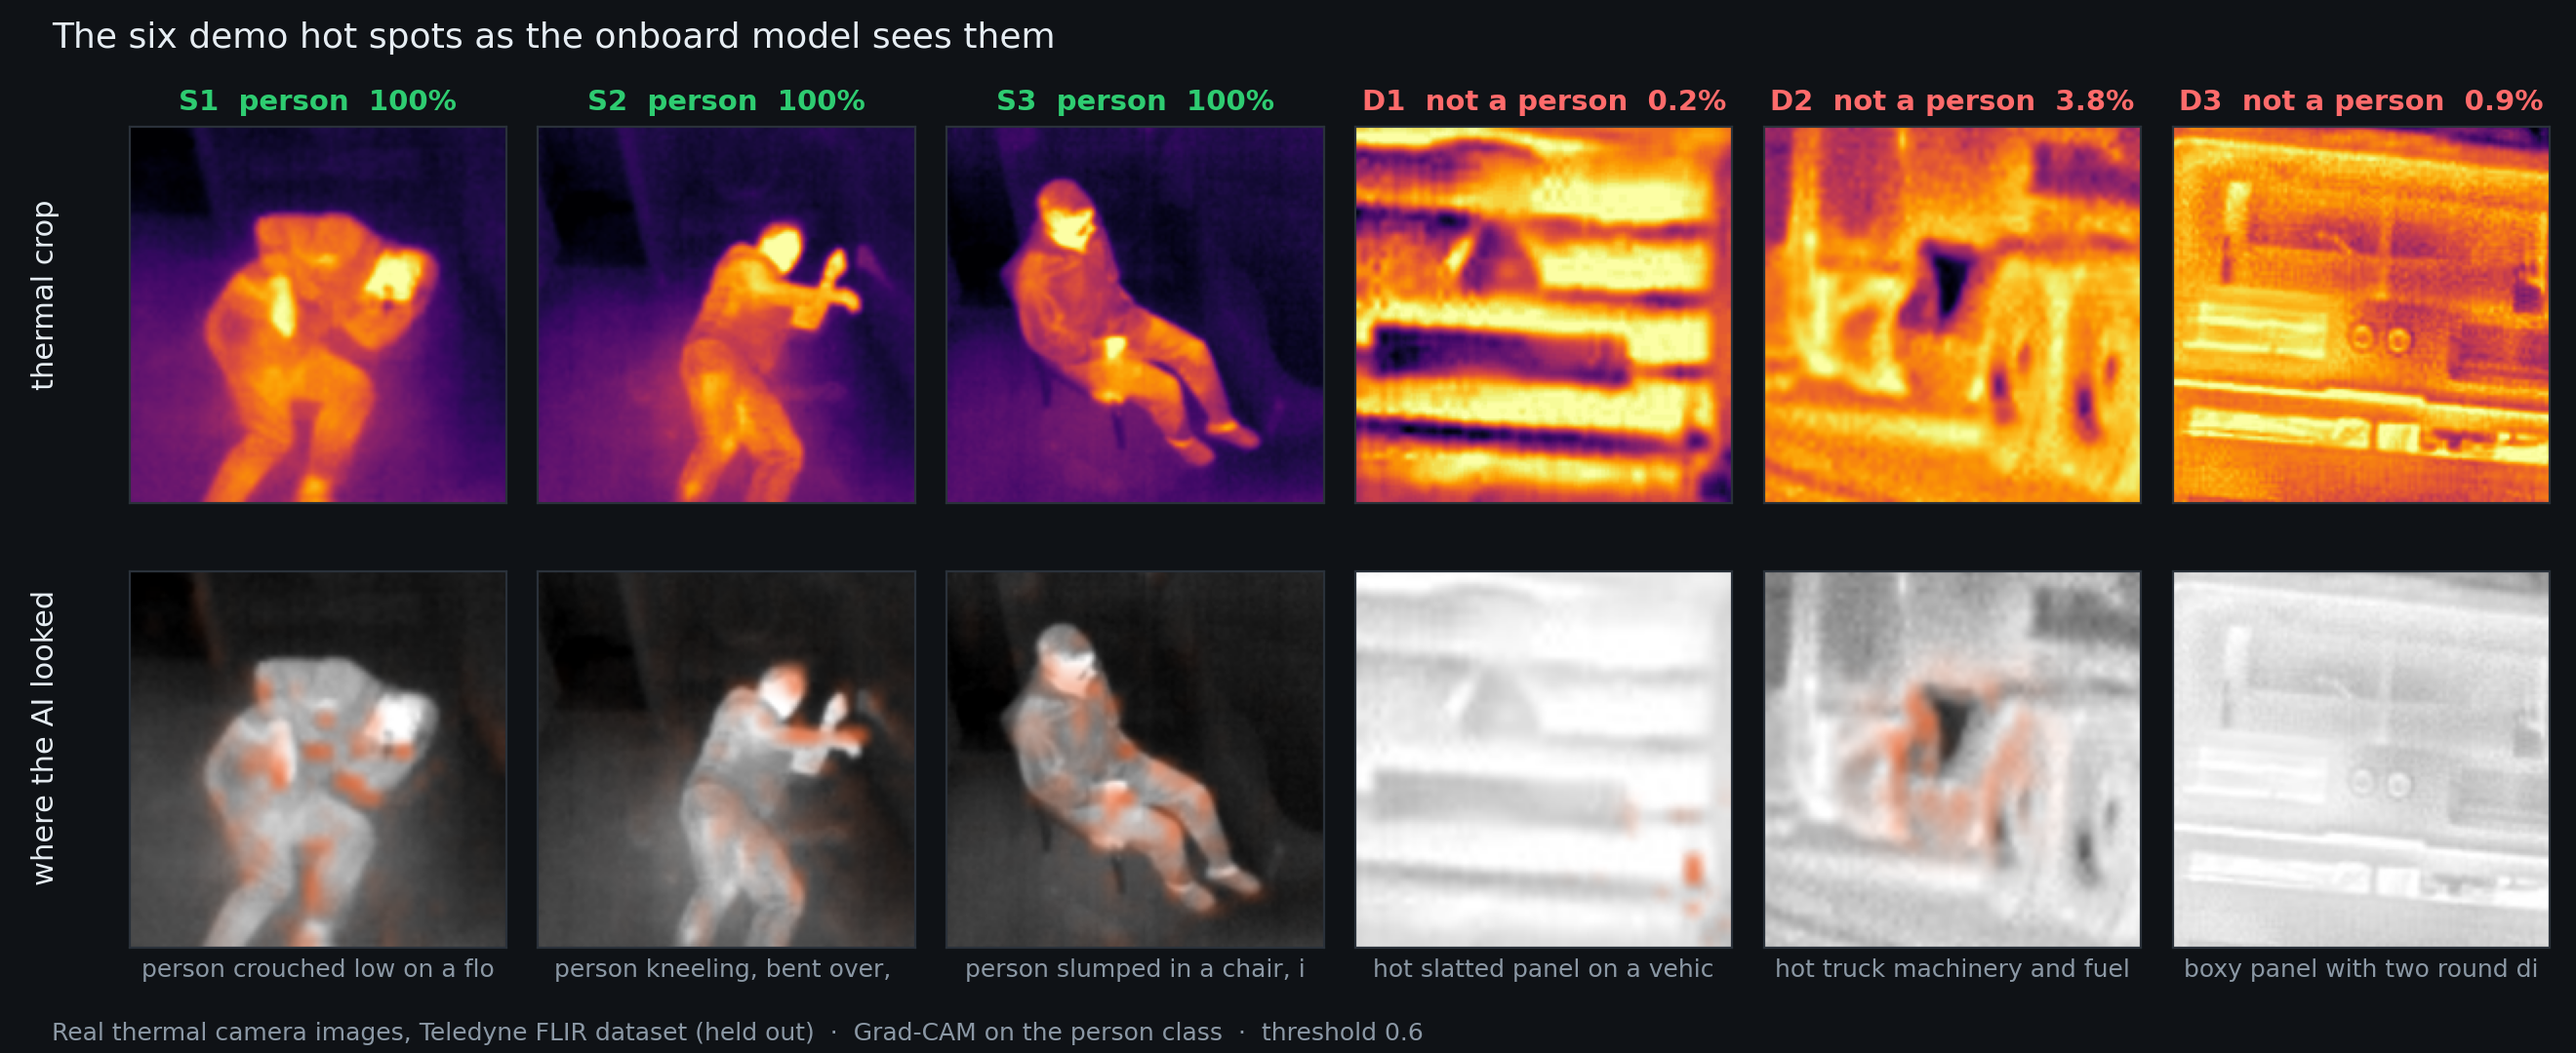
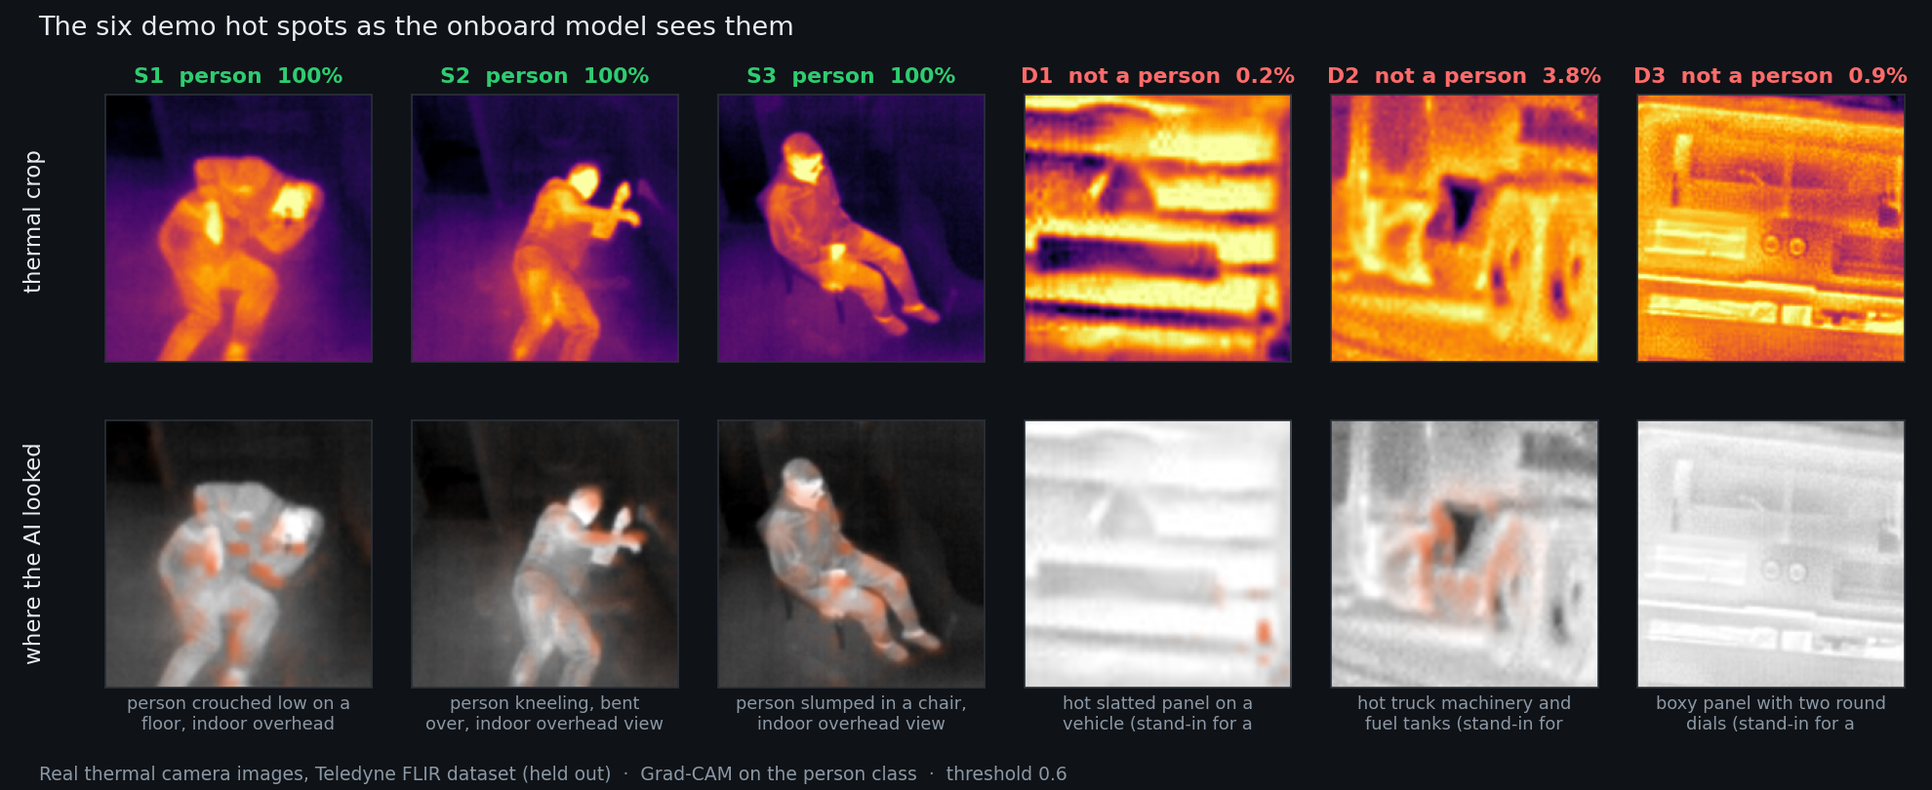
Fix make_slide_assets.py (unterminated string from the caption wrap); gradcam_strip.png regenerated with wrapped captions

diff --git a/ml/make_slide_assets.py b/ml/make_slide_assets.py
@@ -339,8 +339,7 @@ def gradcam_strip():
         shows = c.get("shows") or c.get("object") or ""
         if shows:
             import textwrap
-            bottom.set_xlabel("
-".join(textwrap.wrap(str(shows), 26)[:2]), color=MUTED, fontsize=8.5)
+            bottom.set_xlabel("\n".join(textwrap.wrap(str(shows), 26)[:2]), color=MUTED, fontsize=8.5)
     for ax in axes.flat:
         ax.set_xticks([])
         ax.set_yticks([])

diff --git a/docs/team/history/rayan.md b/docs/team/history/rayan.md
@@ -11,6 +11,11 @@ Owns `server/deadzone/robot/`, `ml/`, `data/floorplans/`. Only Rayan's sessions 
 
 ## Log
 
+### 2026-11-08 19:35 · rayan/strip-fix · Fix: `make_slide_assets.py` had an unterminated string from the 19:20 commit; strip captions wrapped
+- **Did:** my 19:20 commit left `ml/make_slide_assets.py` with a broken line (a newline escaped into the source while wrapping the Grad-CAM captions), so the script did not parse and the strip went in with truncated captions. Fixed; `gradcam_strip.png` regenerated with two-line captions at 150 dpi (0.95 MB). Nothing else changed; the guard and gradcam tests do not import this script, which is why they stayed green.
+- **Contract changes:** none.
+- **Next:** hold.
+
 ### 2026-11-08 19:20 · rayan/slide-assets · Slide assets regenerated from current results; Grad-CAM strip of the six demo crops
 - **Did:** `ml/make_slide_assets.py` gains three sections: `calibration` (replots `ml/results/calibration.json` through `ml/calibration.py`'s chart, no re-scoring), `benchmark` (runs `benchmark_v2.py --replot` and `benchmark_published.py --replot`), and `gradcam` (**new `docs/assets/gradcam_strip.png`**: S1–S3 and D1–D3, thermal crop above, Grad-CAM below, verdict and score from `ml/crops/runtime/manifest.json`). Regenerated from current results: `training_curve.png` (the fine-tuned run: 5 epochs, 13,266 crops), `calibration.png`, `stats_card.png` (96.7 / 97.3 / 96.0), `benchmark_v2.png`, `benchmark_published.png`; `confusion_matrix.png` unchanged. `crops_grid.png` / `pipeline.png` need the SDT frames (testing laptop) and were left as they are. FACTS.md lists every image with its section and source data.
 - **Contract changes:** none.
